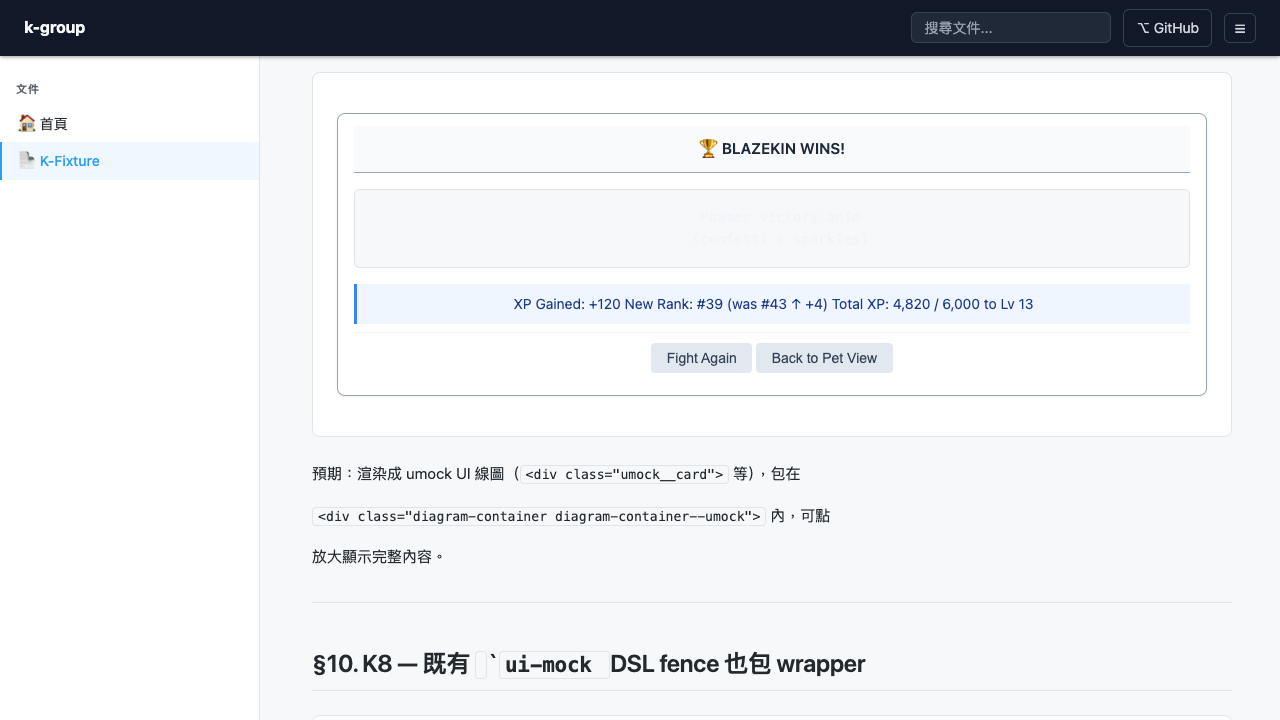
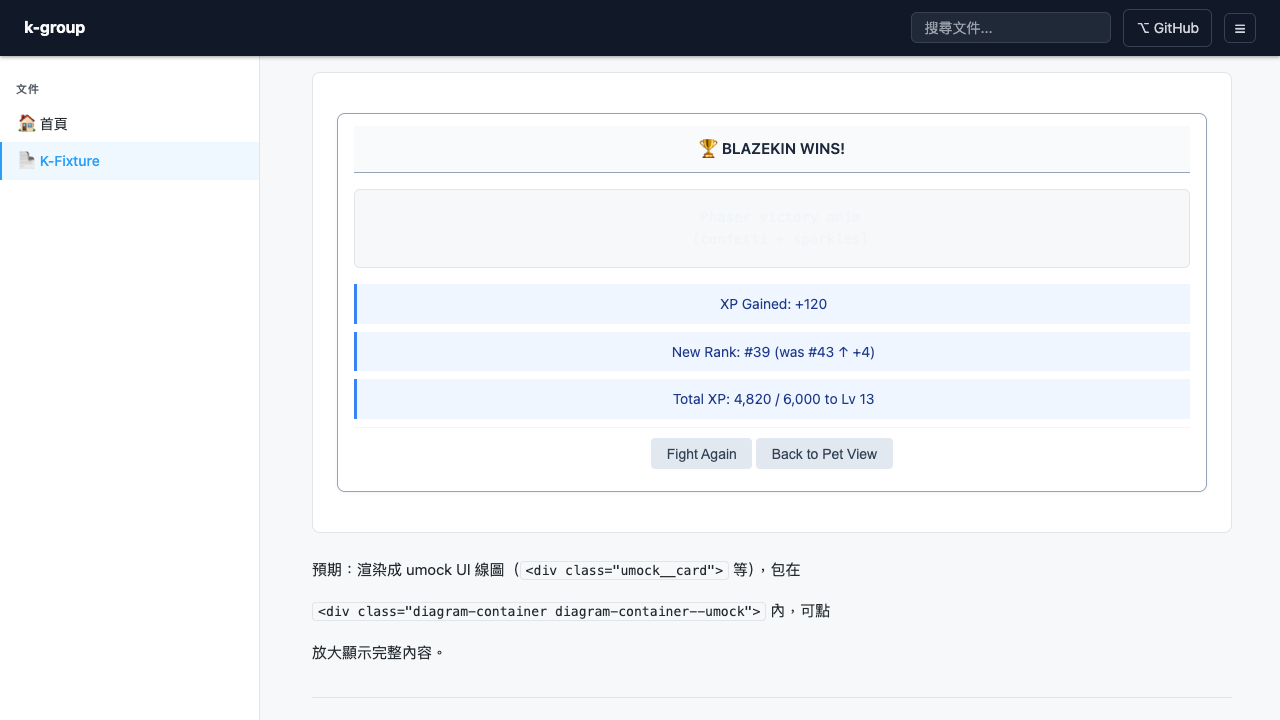
fix(gen-html): K9 補強 — flush_text 改 generic 每行一 info node + §12 新案例驗證
問題（user 抓出）：
之前 K9 的 3 張截圖（K9-1/2/3）對比後發現：
- .md ASCII 顯示 stats 3 行（XP Gained / New Rank / Total XP）
- .html inline 跟 lightbox 把 3 行合成 1 行
- 不一致

根因：_um_ascii_parse_segment_content 內 flush_text() 用
`' '.join(text_parts)` 把多行文字合成一個 info node。
這是「客製化只解 stats case」做法，違反 generic 原則。

Generic fix：flush_text 改為每行各自一個 info node（保留 hint /
ⓘ 前綴判斷）。所有多行文字塊都 generic 處理，不為任何特定
markdown 結構客製。

新案例驗證（user 要求）：
新增 §12 Battle Animation 螢幕（pet/docs 內另一個 UI mock，未動
pet）：title + 多行 stats + 內框 canvas + 多行攻擊訊息。

K9b 三張截圖：
- K9b-1-md-source.png: 原 ASCII（HP bars 1 行、攻擊 2 行）
- K9b-2-html-inline.png: HTML inline（HP bars 1 行、攻擊 2 行
  分別 info bar、結構同 .md）
- K9b-3-lightbox.png: lightbox 放大（同 inline，全螢幕）

K9（§9 Post-Battle）也重新截 2 張：
- K9-2-html-inline.png 更新（XP/Rank/Total XP 3 行各自 info bar）
- K9-3-lightbox.png 更新（同上）
- K9-1-md-source.png 不變（原 ASCII）

驗收：3 張一致對比規則對 §9 + §12 兩個獨立案例都成立 → K9
generic fix 真的 generic（不是只修 §9）。
跨 19 個 test 檔案 361/361 全綠（無 regression）。

diff --git a/tools/gen_html/preview/k-group/docs/pages/k-fixture.html b/tools/gen_html/preview/k-group/docs/pages/k-fixture.html
@@ -307,7 +307,7 @@
 <hr>
 <h2 id="9-k7k8--ui-mock-螢幕設計含-emoji變-umock可放大">§9. K7+K8 — UI mock 螢幕設計（含 emoji，變 umock，可放大）</h2>
 <div class="diagram-container diagram-container--umock"><div class="umock__card"><div class="umock__card-title">🏆  BLAZEKIN WINS!</div><pre class="umock__code"><code class="">  Phaser victory anim
-  (confetti + sparkles)</code></pre><div class="umock__info">XP Gained:    +120 New Rank:     #39  (was #43  ↑ +4) Total XP:     4,820 / 6,000 to Lv 13</div><div class="umock__actions"><button type="button" tabindex="-1" class="umock__btn umock__btn--default">Fight Again</button><button type="button" tabindex="-1" class="umock__btn umock__btn--default">Back to Pet View</button></div></div></div>
+  (confetti + sparkles)</code></pre><div class="umock__info">XP Gained:    +120</div><div class="umock__info">New Rank:     #39  (was #43  ↑ +4)</div><div class="umock__info">Total XP:     4,820 / 6,000 to Lv 13</div><div class="umock__actions"><button type="button" tabindex="-1" class="umock__btn umock__btn--default">Fight Again</button><button type="button" tabindex="-1" class="umock__btn umock__btn--default">Back to Pet View</button></div></div></div>
 <p>預期：渲染成 umock UI 線圖（<code>&lt;div class=&quot;umock__card&quot;&gt;</code> 等），包在</p>
 <p><code>&lt;div class=&quot;diagram-container diagram-container--umock&quot;&gt;</code> 內，可點</p>
 <p>放大顯示完整內容。</p>
@@ -320,7 +320,15 @@
 <div class="diagram-container"><pre class="mermaid">graph TD
   A[&quot;Native Start&quot;] --&gt; B[&quot;Native Middle&quot;]
   B --&gt; C[&quot;Native End&quot;]</pre></div>
-<p>預期：原生 mermaid 路徑不變，包 <code>.diagram-container</code>，可點放大。</p></main>
+<p>預期：原生 mermaid 路徑不變，包 <code>.diagram-container</code>，可點放大。</p>
+<hr>
+<h2 id="12-k9-generic-fix-驗證--battle-animation-螢幕新案例多行-stats">§12. K9 generic fix 驗證 — Battle Animation 螢幕（新案例，多行 stats）</h2>
+<div class="diagram-container diagram-container--umock"><div class="umock__card"><div class="umock__card-title">SUMO BATTLE  ·  Round 1 of 3</div><div class="umock__info">Blazekin               vs          Voltclaw</div><div class="umock__field"><label class="umock__field-label">HP: ████████░░          HP: █████░░░░░</label><div class="umock__field-body"><pre class="umock__code"><code class="">         Phaser 3 Battle Canvas
+           480 × 320 px
+
+   [pet A sprite]     [pet B sprite]</code></pre></div></div><div class="umock__info">⚡ Voltclaw uses Static Shock!</div><div class="umock__info">Blazekin takes 18 damage.</div></div></div>
+<p>預期（K9 generic fix 驗證）：</p>
+<ul><li>title <code>SUMO BATTLE · Round 1 of 3</code> 置中（K9-e）</li><li>「Blazekin vs Voltclaw」與「HP: bars」<strong>分兩行</strong>（K9 generic：每行各自一個 info node，不再 space-join）</li><li>內框 Phaser Canvas + 尺寸 + 內框 sprite 標示作為 code-block / inner box</li><li>攻擊訊息「⚡ Voltclaw uses Static Shock!」與「Blazekin takes 18 damage.」<strong>分兩行</strong></li><li>整段在 lightbox 內可放大；3 張截圖（.md / .html inline / lightbox）結構元素一致</li></ul></main>
   </div>
   <script type="module">
     import mermaid from 'https://cdn.jsdelivr.net/npm/mermaid@11/dist/mermaid.esm.min.mjs';

diff --git a/tools/gen_html/gen_html.py b/tools/gen_html/gen_html.py
@@ -1700,29 +1700,28 @@ def _um_ascii_parse_segment_content(segment_lines: list, taken_title_text: str =
     text_parts = []
 
     def flush_text():
+        # Generic rule: each non-blank line in `text_parts` becomes its own
+        # node (hint / info), preserving the line structure of source ASCII.
+        # Joining lines with spaces collapses semantically distinct rows into
+        # one, which mismatches the .md visual.
         if not text_parts:
             return
-        text = ' '.join(text_parts).strip()
-        if not text:
-            text_parts.clear()
-            return
-        # `helper：...` → hint
-        m = _re.match(r'^\s*helper\s*[：:]\s*(.+)$', text, _re.IGNORECASE)
-        if m:
-            children.append({'type': 'hint', 'attrs': {},
-                             'value': m.group(1).strip(), 'children': []})
-            text_parts.clear()
-            return
-        # `ⓘ ...` → info
-        m = _re.match(r'^\s*ⓘ\s*(.+)$', text)
-        if m:
+        for raw in text_parts:
+            line = raw.strip()
+            if not line:
+                continue
+            m = _re.match(r'^\s*helper\s*[：:]\s*(.+)$', line, _re.IGNORECASE)
+            if m:
+                children.append({'type': 'hint', 'attrs': {},
+                                 'value': m.group(1).strip(), 'children': []})
+                continue
+            m = _re.match(r'^\s*ⓘ\s*(.+)$', line)
+            if m:
+                children.append({'type': 'info', 'attrs': {},
+                                 'value': m.group(1).strip(), 'children': []})
+                continue
             children.append({'type': 'info', 'attrs': {},
-                             'value': m.group(1).strip(), 'children': []})
-            text_parts.clear()
-            return
-        # default → info
-        children.append({'type': 'info', 'attrs': {},
-                         'value': text, 'children': []})
+                             'value': line, 'children': []})
         text_parts.clear()
 
     i = 0

diff --git a/tools/gen_html/preview/k-group/docs/K-FIXTURE.md b/tools/gen_html/preview/k-group/docs/K-FIXTURE.md
@@ -246,3 +246,35 @@ graph TD
 ```
 
 預期：原生 mermaid 路徑不變，包 `.diagram-container`，可點放大。
+
+---
+
+## §12. K9 generic fix 驗證 — Battle Animation 螢幕（新案例，多行 stats）
+
+```
+┌───────────────────────────────────────────────┐
+│  SUMO BATTLE  ·  Round 1 of 3                 │
+│                                               │
+│  Blazekin               vs          Voltclaw  │
+│  HP: ████████░░          HP: █████░░░░░       │
+│                                               │
+│  ┌─────────────────────────────────────────┐  │
+│  │                                         │  │
+│  │         Phaser 3 Battle Canvas          │  │
+│  │           480 × 320 px                  │  │
+│  │                                         │  │
+│  │   [pet A sprite]     [pet B sprite]     │  │
+│  │                                         │  │
+│  └─────────────────────────────────────────┘  │
+│                                               │
+│  ⚡ Voltclaw uses Static Shock!               │
+│  Blazekin takes 18 damage.                    │
+└───────────────────────────────────────────────┘
+```
+
+預期（K9 generic fix 驗證）：
+- title `SUMO BATTLE · Round 1 of 3` 置中（K9-e）
+- 「Blazekin vs Voltclaw」與「HP: bars」**分兩行**（K9 generic：每行各自一個 info node，不再 space-join）
+- 內框 Phaser Canvas + 尺寸 + 內框 sprite 標示作為 code-block / inner box
+- 攻擊訊息「⚡ Voltclaw uses Static Shock!」與「Blazekin takes 18 damage.」**分兩行**
+- 整段在 lightbox 內可放大；3 張截圖（.md / .html inline / lightbox）結構元素一致
